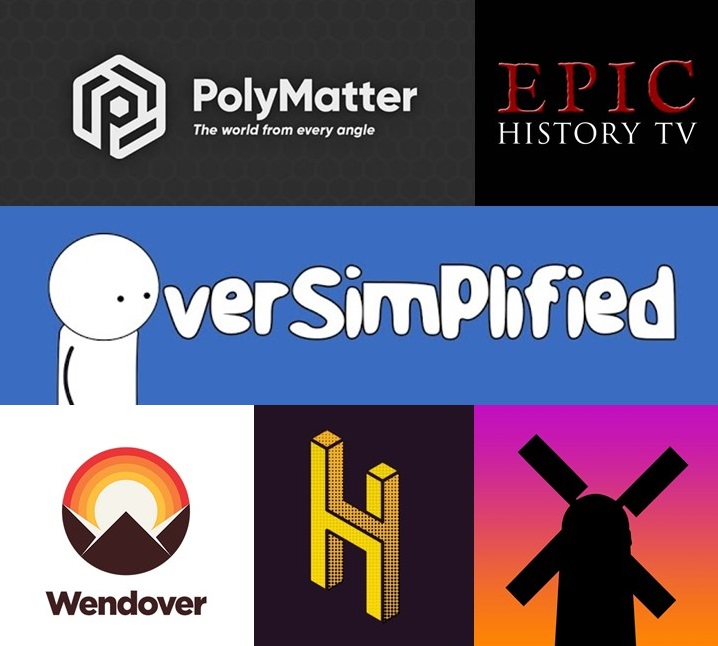
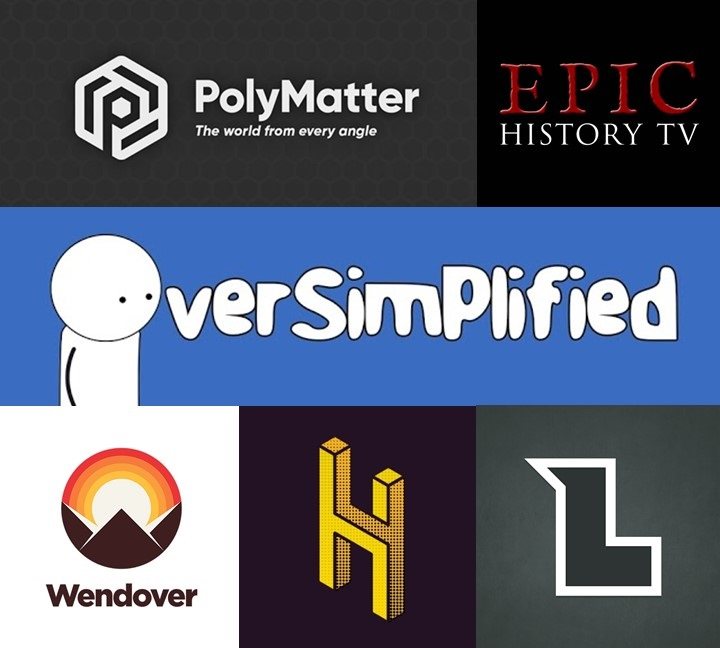
Update
Changed Youtube picture

diff --git a/About Me/index.md b/About Me/index.md
@@ -54,15 +54,16 @@ Below are some of my interests (Consider thumbnails as recommendations).
         <article>
             <a href="https://www.youtube.com/channel/UC6uZMKVYdFUhujQ4Oy6C2YQ/channels?view_as=subscriber" class="image"><img src="Youtube.jpg" alt="Featured Channels" /></a>
             <h3>Youtube</h3>
-            <p>I watch a lot of youtube, not just educational but history, business and economics, tech and random stuff.</p>
+            <p>I watch a lot of youtube, not just educational but history, business and economics, engineering, tech and random stuff.</p>
             <p>My recommendations
             <ul>
                 <li><a href="https://www.youtube.com/channel/UCNIuvl7V8zACPpTmmNIqP2A">Oversimplified</a></li>
+                <li><a href="https://www.youtube.com/user/Top10Memes">LEMMiNO</a></li>
                 <li><a href="https://www.youtube.com/channel/UCvPXiKxH-eH9xq-80vpgmKQ">Epic History TV</a></li>
                 <li><a href="https://www.youtube.com/channel/UCgNg3vwj3xt7QOrcIDaHdFg">Polymatter</a></li>
                 <li><a href="https://www.youtube.com/channel/UC9RM-iSvTu1uPJb8X5yp3EQ">Wendover Productions</a></li>
                 <li><a href="https://www.youtube.com/channel/UCuCkxoKLYO_EQ2GeFtbM_bw">Half as Interesting</a></li>
-                <li><a href="https://www.youtube.com/channel/UCP5tjEmvPItGyLhmjdwP7Ww">Real Life Lore</a></li>
+                <!--li><a href="https://www.youtube.com/channel/UCP5tjEmvPItGyLhmjdwP7Ww">Real Life Lore</a></li-->
             </ul></p>
             <p>Below link includes <b>educational</b> channels too.</p>
             <ul class="actions">
